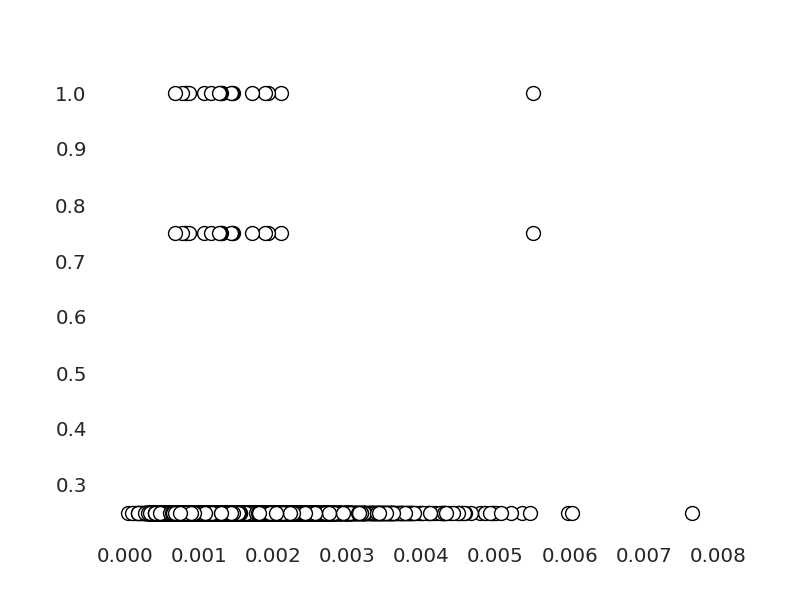
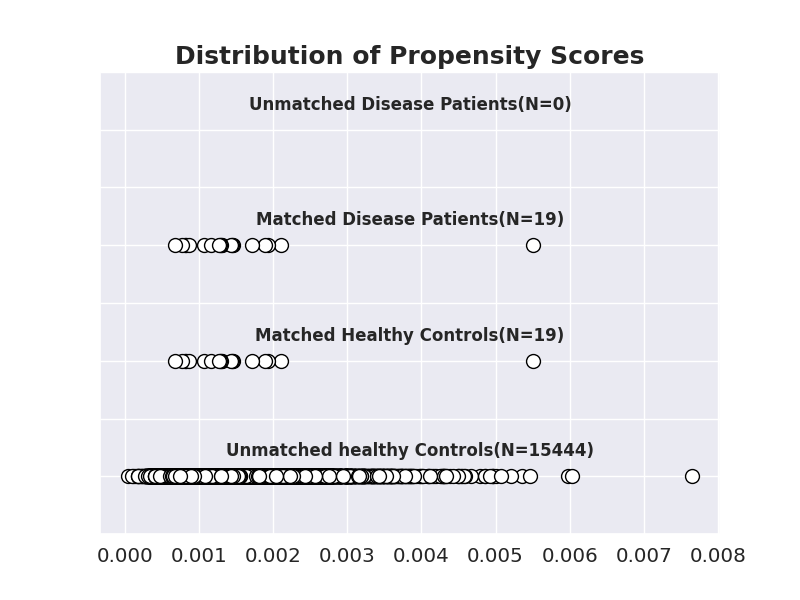
Added matching samples function.

diff --git a/exec/matching_samples_R_best_algo_features_plots.py b/exec/matching_samples_R_best_algo_features_plots.py
@@ -85,16 +85,9 @@ for stroke_cohort in ["pre-stroke", "post-stroke"]:
     elif stroke_cohort == "post-stroke":
         df = df_post.copy()
 ##############################################################################
-    # plot
-    fig, ax = plt.subplots(1,2, figsize=(20, 8))
-    # Set the background color of the axes to white
-    sns.set_style('darkgrid')
     for gender in ["Female", "Male"]:
         if gender == "Female":
             data = df[df["gender"]==0]
-            axi = 0
-            print(gender)
-            print(axi)
             # print("===== Done! =====")
             # embed(globals(), locals())
         elif gender == "Male":    
@@ -106,7 +99,7 @@ for stroke_cohort in ["pre-stroke", "post-stroke"]:
         propensity_scores = propensity_model.predict_proba(data[covariates])[:, 1]
         data['propensity_scores'] = propensity_scores
 
-        # Create a DataFrame for treated and control groups
+        # Create a DataFrame for diseaseed and control groups
         disease_group = data[data['disease'] == 1]
         control_group = data[data['disease'] == 0]
 
@@ -114,17 +107,17 @@ for stroke_cohort in ["pre-stroke", "post-stroke"]:
         knn = NearestNeighbors(n_neighbors=1)
         knn.fit(control_group[covariates])
 
-        # Find the nearest neighbors for each treated unit
+        # Find the nearest neighbors for each diseaseed unit
         distances, indices = knn.kneighbors(disease_group[covariates])
         matched_pairs = pd.DataFrame({
-            'treated_index': disease_group.index,
+            'disease_index': disease_group.index,
             'control_index': control_group.index[indices.flatten()],
             'distance': distances.flatten(),
             'propensity_score': propensity_scores[indices.flatten()]
         })
 
         # Use the matched pairs to create the matched data
-        matched_data = disease_group.reset_index(drop=True).join(control_group.iloc[indices.flatten()].reset_index(drop=True), lsuffix="_treat", rsuffix="_control")
+        matched_data = disease_group.reset_index(drop=True).join(control_group.iloc[indices.flatten()].reset_index(drop=True), lsuffix="_disease", rsuffix="_control")
 
         matched_data['distance'] = matched_pairs['distance'].values
         matched_data['propensity_score'] = matched_pairs['propensity_score'].values
@@ -132,44 +125,58 @@ for stroke_cohort in ["pre-stroke", "post-stroke"]:
 
         matched_patients = matched_data['propensity_score']
         matched_controls = matched_data['propensity_score']
-        unmatched_controls= control_group[~control_group.index.isin(pd.concat([matched_data['index_treat'], matched_data['index_control']]))].loc[:, 'propensity_scores']
-        unmatched_patients= disease_group[~disease_group.index.isin(pd.concat([matched_data['index_treat'], matched_data['index_control']]))].loc[:, 'propensity_scores']
+        unmatched_controls= control_group[~control_group.index.isin(pd.concat([matched_data['index_disease'], matched_data['index_control']]))].loc[:, 'propensity_scores']
+        unmatched_patients= disease_group[~disease_group.index.isin(pd.concat([matched_data['index_disease'], matched_data['index_control']]))].loc[:, 'propensity_scores']
         print(len(matched_patients))
         print(len(matched_controls))
 
 ##############################################################################
 ##############################################################################
-        y = np.full((len(unmatched_patients)), 1.4)
-        ax[axi].scatter(unmatched_patients, y, s=100, edgecolors='black', c='white')
-        y = np.full((len(matched_patients)), 1)
-        ax[axi].scatter(matched_patients, y, s=100, edgecolors='black', c='white')
-        y = np.full((len(matched_controls)), 0.6)
-        ax[axi].scatter(matched_controls, y, s=100, edgecolors='black', c='white')
-        y = np.full((len(unmatched_controls)), 0.2)
-        ax[axi].scatter(unmatched_controls, y, s=100, edgecolors='black', c='white')
+        # plot
+        fig, ax = plt.subplots(2,2, figsize=(18, 10))
+        # Set the background color of the axes to white
+        sns.set_style('darkgrid')
+        for i, feature in enumerate(covariates):
+            if i == 0:
+                axi = 0
+                axj = 0
+            elif i == 1:
+                axi = 0
+                axj = 1
+            elif i == 2:
+                axi = 1
+                axj = 0
+            elif i == 3:
+                axi = 1
+                axj = 1
+            y1 = np.full((len(matched_data)), 0.6)
+            ax[axi][axj].scatter(matched_data[feature+"_disease"], y1, s=100, edgecolors='black', c='white')
+            df_y1 = pd.concat([matched_data[feature+"_disease"], pd.Series(y1, name='yaxis')], axis=1)
+            df_y1 = df_y1.rename(columns={f"{feature}_disease":f"{feature}", f"{feature}_control":f"{feature}"})
+            y2 = np.full((len(matched_data)), 0.2)
+            ax[axi][axj].scatter(matched_data[feature+"_control"], y2, s=100, edgecolors='black', c='white')
+            df_y2 = pd.concat([matched_data[feature+"_control"], pd.Series(y2, name='yaxis')], axis=1)
+            df_y2 = df_y2.rename(columns={f"{feature}_disease":f"{feature}", f"{feature}_control":f"{feature}"})
+            
+            # Plot lines connecting corresponding points
+            ax[axi][axj].plot([df_y1[feature], df_y2[feature]], [df_y1["yaxis"], df_y2["yaxis"]], linestyle='-')
+            xmin, xmax = ax[axi][axj].get_xlim()
+            x_axis_mean = (xmin + xmax) / 2
+            ax[axi][axj].set_ylim(0, .8)
 
-        xmin, xmax = ax[axi].get_xlim()
-        x_axis_mean = (xmin + xmax) / 2
-        ax[axi].set_ylim(0, 1.6)
+            text1 = f"Matched Disease Patients(N={len(matched_patients)})"
+            text2 = f"Matched Healthy Controls(N={len(matched_controls)})"
 
-        text0 = f"Unmatched Disease Patients(N={len(unmatched_patients)})"
-        text1 = f"Matched Disease Patients(N={len(matched_patients)})"
-        text2 = f"Matched Healthy Controls(N={len(matched_controls)})"
-        text3 = f"Unmatched healthy Controls(N={len(unmatched_controls)})"
-
-        ax[axi].text(x_axis_mean, 1.4 + 0.07, text0, horizontalalignment='center', fontsize=12, fontweight="bold")
-        ax[axi].text(x_axis_mean, 1 + 0.07, text1, horizontalalignment='center', fontsize=12, fontweight="bold")
-        ax[axi].text(x_axis_mean, 0.6 + 0.07, text2, horizontalalignment='center', fontsize=12, fontweight="bold")
-        ax[axi].text(x_axis_mean, 0.2 + 0.07, text3, horizontalalignment='center', fontsize=12, fontweight="bold")
-        # Remove the y-axis ticks
-        ax[axi].set_yticklabels([])
-        ax[axi].set_title(f"{gender}(Total Controls={len(pd.concat([matched_controls, unmatched_controls], axis=0))})", fontsize=14, fontweight="bold")
+            ax[axi][axj].text(x_axis_mean, 0.6 + 0.08, text1, horizontalalignment='center', fontsize=12, fontweight="bold")
+            ax[axi][axj].text(x_axis_mean, 0.2 - 0.08, text2, horizontalalignment='center', fontsize=12, fontweight="bold")
+            # Remove the y-axis ticks
+            ax[axi][axj].set_yticklabels([])
+            ax[axi][axj].set_title(f"{feature.capitalize()}", fontsize=14, fontweight="bold")
     
-    fig.suptitle(f"Distribution of Propensity Scores\n{stroke_cohort}\nTarget={target_label}", fontsize=16, fontweight="bold")
-    plt.show()
-    # plt.savefig(f"PS_distribution_{target}_{stroke_cohort}_{gender}_without_hgs.png")
-    plt.savefig(f"PS_distribution_{target}_{stroke_cohort}_{gender}.png")
-    plt.close()
+        fig.suptitle(f"Distribution of Features\n{stroke_cohort}\nTarget={target_label}\n{gender}(Total Controls={len(pd.concat([matched_controls, unmatched_controls], axis=0))})", fontsize=16, fontweight="bold")
+        plt.show()
+        plt.savefig(f"FT_distribution_{target}_{stroke_cohort}_{gender}.png")
+        plt.close()
 
 ##############################################################################
 ##############################################################################
